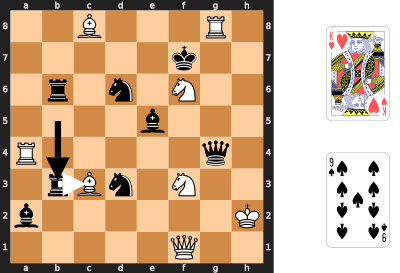
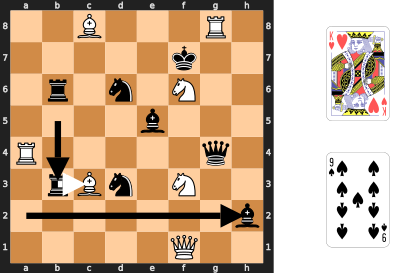
Simplify Chess Golf rules, for #27.

Changed region(s): [[0.03, 0.7326, 0.66, 0.8498]]

diff --git a/raw_rules/new_rules.md b/raw_rules/new_rules.md
@@ -125,16 +125,16 @@ start with an example:
 
 Every puzzle starts with the pieces spread around the board, and two cards
 choosing two types of pieces according to the table in appendix A. The goal is
-to make one piece type threaten the other in as few moves as possible. In this
-example, you have to make the white king threaten one of the black bishops or
-make one of the black bishops threaten the white king.
+to make one piece type capture the other in as few moves as possible. In this
+example, you have to make the white king capture one of the black bishops or
+make one of the black bishops capture the white king.
 
-You might think that the bishop at e5 is already threatening the king, but in
+You might think that the bishop at e5 could directly capture the king, but in
 this game, the piece's original movement is irrelevant. Pieces can only
-**borrow** the moves of a neighbouring piece in the 8 squares immediately
+**borrow** a move from a neighbouring piece in the 8 squares immediately
 surrounding them, a bit like a golfer takes a golf club from the caddy standing
 next to them. That means that the bishop at e5 can only move like a knight and
-the king can't move at all. Also, pieces can only borrow the moves of a
+the king can't move at all. Also, pieces can only borrow moves from a
 neighbour that's the **same colour**, so the bishop at a2 can't move at all.
 
 Now that you know how the pieces move, here's one possible solution:
@@ -142,22 +142,23 @@ Now that you know how the pieces move, here's one possible solution:
     . . B . . . R .
     . . . . . k . .
     . r . n . N . .
-    . r . . . . . b
+    . r . . . . . .
     R . . . . . q .
     . B . n . N . .
-    b . . . . . . K
+    b . . . . . . b
     . . . . . Q . .
     margins: 0, 0, 4, 0
     card: KH, 10, 0.5
     card: 9S, 10, 4.5
     arrow: e5, g6, black
     arrow: g6, h5, black
+    arrow: h5, h2, black
 
 The bishop moves like a knight to g6 and then moves like a king to h5. Then it
-borrows the queen's move to threaten the king at h2. The solution takes 2 moves.
+borrows the queen's move to capture the king at h2. The solution takes 3 moves.
 
-You're not limited to moving the two chosen piece types. Here's a solution that
-doesn't move either of the chosen piece types:
+You're not limited to moving the two chosen piece types. Here's a 3-move
+solution where a chosen piece type only makes the final capture move:
 
     . . B . . . R .
     . . . . . k . .
@@ -165,20 +166,21 @@ doesn't move either of the chosen piece types:
     . . . . b . . .
     R . . . . . q .
     . r B n . N . .
-    b . . . . . . K
+    . . . . . . . b
     . . . . . Q . .
     margins: 0, 0, 4, 0
     card: KH, 10, 0.5
     card: 9S, 10, 4.5
     arrow: b3, c3, white
     arrow: b5, b3, black
+    arrow: a2, h2, black
 
 The white bishop uses the rook's move to get out of the way, and then the black
-rook comes down to b3. The bishop at a2 can now use the rook's move to threaten
-the king. This solution also takes 2 moves.
+rook comes down to b3. The bishop at a2 can now use the rook's move to capture
+the king.
 
-There are solutions that help the white king threaten a black bishop, but they
-take at least 3 moves.
+There are solutions that help the white king capture a black bishop, but they
+take at least 4 moves.
 
 Now that you've seen how to solve one of the puzzles, the rest of the rules
 explain how to solve a series of these puzzles with a group of players, keeping
@@ -238,60 +240,36 @@ where the pieces were placed.
     card: KH, 9.5, 3
     card: QH, 10, 3
 
-When all 16 pieces are on the board, shuffle the cards again, and place them
-next to the board as a draw pile.
+When all 16 pieces are on the board, randomly choose a dealer to shuffle the
+cards again.
 
-Randomly choose a scorekeeper, and get them to write everyone's initials at the
-top of the paper, leaving enough room for 9 scores and a course total. Leave
-room for 18 scores, if you're playing a full round.
+Also choose a scorekeeper, and get them to write everyone's initials at the
+top of the paper, leaving enough room for 9 scores and a course total.
 
 ### Play
-To start each turn, **check** that at least one white piece has another white
-piece it can borrow moves from. Make the same check for at least one black
-piece. In the rare case where no pieces of a colour can move, move the king to
-the closest square where it has a neighbour of the same colour. In this example
-after the second solution above, no white pieces can move. Start the turn by
-moving the white king to g1, g2, or g3 where it can borrow moves from the
-knight or the queen. If there is more than one move at the same distance, the
-scorekeeper may choose.
-
-    . . B . . . R .
-    . . . . . k . .
-    . r . n . N . .
-    . . . . b . . .
-    R . . . . . q .
-    . r B n . N . .
-    b . . . . . . K
-    . . . . . Q . .
-    margins: 0, 0, 4, 0
-    card: KH, 10, 0.5
-    card: 9S, 10, 4.5
-    arrow: h2, g3, white
-    arrow: h2, g2, white
-    arrow: h2, g1, white
-
-Once you're ready to start the main turn, **draw** two cards and place them face
+On the first turn, the dealer will **draw** two cards and place them face
 up next to the board where all players can see them. Check appendix A if you
-need to, and **announce** the two chosen piece types for this turn. Then
-**start** the timer.
+need to, and **announce** the two chosen piece types for this turn. On later
+turns, only draw one card and play it on top of the card for the piece that was
+just captured.
 
-All players now try to **solve** the puzzle in as few moves as possible. While
-planning, no one actually moves the pieces. Just visualize how the pieces will
-move and count how many moves you need to threaten one of the piece types with
-the other.
+**Start** the timer, while all players try to **solve** the puzzle in as few
+moves as possible. While solving, no one actually moves the pieces. Just
+visualize how the pieces will move and count how many moves you need to capture
+one of the piece types with the other.
 
-When you **find** a path and count the moves, put your fist on the table
+When you **find** a solution and count the moves, put your fist on the table
 to show that you're ready. When all the players have a fist on the table or
-when the timer runs out, the planning phase ends.
+when the timer runs out, the solving phase ends.
 
 Now, everyone **reveals** their move count at the same time. Bang your fist on
 the table as you count "one, two, three." As you say "three," everyone puts out
 a number of fingers to show how many moves they need. The scorekeeper writes
-down everyone's numbers. If you think it's impossible, make a thumbs down
-gesture, and the scorekeeper will write an X.
+down everyone's numbers. If you think it's impossible, keep your hand in a fist
+as a zero.
 
 The player with the fewest strokes must now **demonstrate** the path. If some
-players are tied for fewest, start with the scorekeeper and go around to the
+players are tied for fewest, start with the dealer and go around to the
 left until you reach one of the tied players. That player must demonstrate. It
 can be helpful to start by placing coins under all the pieces that you're going
 to move, so you can reset if you get confused.
@@ -304,22 +282,46 @@ If the player can't demonstrate their path, then they get the maximum of all the
 other players' numbers, plus a one-point penalty. Reset the pieces to where
 they started and get the player with the next lowest number to demonstrate.
 
-If some players say it's impossible, let the player with the lowest number
-demonstrate. If they are successful, then all the players with an X get the
-maximum number plus a one-point penalty.
+If some players say it's impossible, let the player with the lowest nonzero
+number demonstrate. If they are successful, then all the players with a zero get
+the maximum number plus a one-point penalty.
 
-After a successful demonstration, leave the pieces in their final positions.
-Remove the coins, if you used them. **Pass** the pencil and paper one player to
-the left to choose a new scorekeeper.
+After a successful demonstration, leave the pieces in their final positions, and
+place the captured piece beside the board. Remove the coins, if you used them.
+**Pass** the deck one player to the left to choose a new dealer.
+
+### Special Moves
+The basic moves are to borrow a move from a neighbouring piece of the same
+colour. You may only capture one of the chosen piece types with the other one.
+No other captures are allowed.
+
+In addition, there are two special moves to help when you get stuck:
+
+1. Move any piece on the board using a king's move of one square in any
+   direction.
+2. Add one of the captured pieces back to the board. You may add it to any
+   square, except that you may not add one of the chosen piece types to a
+   square that neighbours the other chosen piece type.
+
+The special moves are powerful, but expensive. When you count up your moves, a
+special move counts as 10. For example, adding a piece and then immediately
+using it to capture would count as 11 moves.
+
+To allow scores over 10, use this special system when revealing your move counts:
+
+* 1 point for right hand fingers
+* 5 points for right hand thumb
+* 10 points for left hand fingers
+* 50 points for left hand thumb
+
+That will let you reveal scores up to 99, more than you will need. If that's too
+fiddly, you can give each player their own paper and pencil to write their
+scores in secret before everyone reveals them.
 
 ### Game End
-Continue drawing two cards each for eight turns until the deck runs out. For the
-ninth turn, use the two kings. If you want to play a full round, shuffle the
-cards and play the back nine holes of your chess golf course. You don't need to
-lay out the pieces again.
-
-Add up the points for all 9 or 18 turns, and award the game to the player with
-the lowest score. A tie goes to the best dressed player.
+Continue dealing a new card each turn until you have played 9 turns. Add up the
+points for all 9 turns, and award the game to the player with the lowest score.
+A tie goes to the best dressed player.
 
 ## Neighbour Chess Solitaire
 Pairs of chess pieces help each other across the board until you gather them all

diff --git a/docs/new_rules.md b/docs/new_rules.md
@@ -105,16 +105,16 @@ start with an example:
 
 Every puzzle starts with the pieces spread around the board, and two cards
 choosing two types of pieces according to the table in appendix A. The goal is
-to make one piece type threaten the other in as few moves as possible. In this
-example, you have to make the white king threaten one of the black bishops or
-make one of the black bishops threaten the white king.
+to make one piece type capture the other in as few moves as possible. In this
+example, you have to make the white king capture one of the black bishops or
+make one of the black bishops capture the white king.
 
-You might think that the bishop at e5 is already threatening the king, but in
+You might think that the bishop at e5 could directly capture the king, but in
 this game, the piece's original movement is irrelevant. Pieces can only
-**borrow** the moves of a neighbouring piece in the 8 squares immediately
+**borrow** a move from a neighbouring piece in the 8 squares immediately
 surrounding them, a bit like a golfer takes a golf club from the caddy standing
 next to them. That means that the bishop at e5 can only move like a knight and
-the king can't move at all. Also, pieces can only borrow the moves of a
+the king can't move at all. Also, pieces can only borrow moves from a
 neighbour that's the **same colour**, so the bishop at a2 can't move at all.
 
 Now that you know how the pieces move, here's one possible solution:
@@ -122,19 +122,19 @@ Now that you know how the pieces move, here's one possible solution:
 ![Diagram](images/new_rules/chess-golf2.png)
 
 The bishop moves like a knight to g6 and then moves like a king to h5. Then it
-borrows the queen's move to threaten the king at h2. The solution takes 2 moves.
+borrows the queen's move to capture the king at h2. The solution takes 3 moves.
 
-You're not limited to moving the two chosen piece types. Here's a solution that
-doesn't move either of the chosen piece types:
+You're not limited to moving the two chosen piece types. Here's a 3-move
+solution where a chosen piece type only makes the final capture move:
 
 ![Diagram](images/new_rules/chess-golf3.png)
 
 The white bishop uses the rook's move to get out of the way, and then the black
-rook comes down to b3. The bishop at a2 can now use the rook's move to threaten
-the king. This solution also takes 2 moves.
+rook comes down to b3. The bishop at a2 can now use the rook's move to capture
+the king.
 
-There are solutions that help the white king threaten a black bishop, but they
-take at least 3 moves.
+There are solutions that help the white king capture a black bishop, but they
+take at least 4 moves.
 
 Now that you've seen how to solve one of the puzzles, the rest of the rules
 explain how to solve a series of these puzzles with a group of players, keeping
@@ -170,47 +170,36 @@ where the pieces were placed.
 
 ![Diagram](images/new_rules/chess-golf4.png)
 
-When all 16 pieces are on the board, shuffle the cards again, and place them
-next to the board as a draw pile.
+When all 16 pieces are on the board, randomly choose a dealer to shuffle the
+cards again.
 
-Randomly choose a scorekeeper, and get them to write everyone's initials at the
-top of the paper, leaving enough room for 9 scores and a course total. Leave
-room for 18 scores, if you're playing a full round.
+Also choose a scorekeeper, and get them to write everyone's initials at the
+top of the paper, leaving enough room for 9 scores and a course total.
 
 ### Play
-To start each turn, **check** that at least one white piece has another white
-piece it can borrow moves from. Make the same check for at least one black
-piece. In the rare case where no pieces of a colour can move, move the king to
-the closest square where it has a neighbour of the same colour. In this example
-after the second solution above, no white pieces can move. Start the turn by
-moving the white king to g1, g2, or g3 where it can borrow moves from the
-knight or the queen. If there is more than one move at the same distance, the
-scorekeeper may choose.
-
-![Diagram](images/new_rules/chess-golf5.png)
-
-Once you're ready to start the main turn, **draw** two cards and place them face
+On the first turn, the dealer will **draw** two cards and place them face
 up next to the board where all players can see them. Check appendix A if you
-need to, and **announce** the two chosen piece types for this turn. Then
-**start** the timer.
+need to, and **announce** the two chosen piece types for this turn. On later
+turns, only draw one card and play it on top of the card for the piece that was
+just captured.
 
-All players now try to **solve** the puzzle in as few moves as possible. While
-planning, no one actually moves the pieces. Just visualize how the pieces will
-move and count how many moves you need to threaten one of the piece types with
-the other.
+**Start** the timer, while all players try to **solve** the puzzle in as few
+moves as possible. While solving, no one actually moves the pieces. Just
+visualize how the pieces will move and count how many moves you need to capture
+one of the piece types with the other.
 
-When you **find** a path and count the moves, put your fist on the table
+When you **find** a solution and count the moves, put your fist on the table
 to show that you're ready. When all the players have a fist on the table or
-when the timer runs out, the planning phase ends.
+when the timer runs out, the solving phase ends.
 
 Now, everyone **reveals** their move count at the same time. Bang your fist on
 the table as you count "one, two, three." As you say "three," everyone puts out
 a number of fingers to show how many moves they need. The scorekeeper writes
-down everyone's numbers. If you think it's impossible, make a thumbs down
-gesture, and the scorekeeper will write an X.
+down everyone's numbers. If you think it's impossible, keep your hand in a fist
+as a zero.
 
 The player with the fewest strokes must now **demonstrate** the path. If some
-players are tied for fewest, start with the scorekeeper and go around to the
+players are tied for fewest, start with the dealer and go around to the
 left until you reach one of the tied players. That player must demonstrate. It
 can be helpful to start by placing coins under all the pieces that you're going
 to move, so you can reset if you get confused.
@@ -223,22 +212,46 @@ If the player can't demonstrate their path, then they get the maximum of all the
 other players' numbers, plus a one-point penalty. Reset the pieces to where
 they started and get the player with the next lowest number to demonstrate.
 
-If some players say it's impossible, let the player with the lowest number
-demonstrate. If they are successful, then all the players with an X get the
-maximum number plus a one-point penalty.
+If some players say it's impossible, let the player with the lowest nonzero
+number demonstrate. If they are successful, then all the players with a zero get
+the maximum number plus a one-point penalty.
 
-After a successful demonstration, leave the pieces in their final positions.
-Remove the coins, if you used them. **Pass** the pencil and paper one player to
-the left to choose a new scorekeeper.
+After a successful demonstration, leave the pieces in their final positions, and
+place the captured piece beside the board. Remove the coins, if you used them.
+**Pass** the deck one player to the left to choose a new dealer.
+
+### Special Moves
+The basic moves are to borrow a move from a neighbouring piece of the same
+colour. You may only capture one of the chosen piece types with the other one.
+No other captures are allowed.
+
+In addition, there are two special moves to help when you get stuck:
+
+1. Move any piece on the board using a king's move of one square in any
+   direction.
+2. Add one of the captured pieces back to the board. You may add it to any
+   square, except that you may not add one of the chosen piece types to a
+   square that neighbours the other chosen piece type.
+
+The special moves are powerful, but expensive. When you count up your moves, a
+special move counts as 10. For example, adding a piece and then immediately
+using it to capture would count as 11 moves.
+
+To allow scores over 10, use this special system when revealing your move counts:
+
+* 1 point for right hand fingers
+* 5 points for right hand thumb
+* 10 points for left hand fingers
+* 50 points for left hand thumb
+
+That will let you reveal scores up to 99, more than you will need. If that's too
+fiddly, you can give each player their own paper and pencil to write their
+scores in secret before everyone reveals them.
 
 ### Game End
-Continue drawing two cards each for eight turns until the deck runs out. For the
-ninth turn, use the two kings. If you want to play a full round, shuffle the
-cards and play the back nine holes of your chess golf course. You don't need to
-lay out the pieces again.
-
-Add up the points for all 9 or 18 turns, and award the game to the player with
-the lowest score. A tie goes to the best dressed player.
+Continue dealing a new card each turn until you have played 9 turns. Add up the
+points for all 9 turns, and award the game to the player with the lowest score.
+A tie goes to the best dressed player.
 
 ## Neighbour Chess Solitaire
 Pairs of chess pieces help each other across the board until you gather them all
